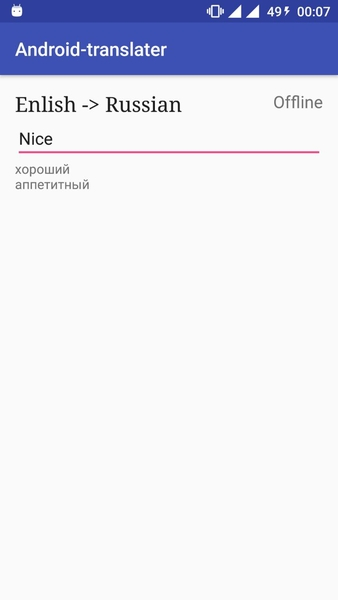
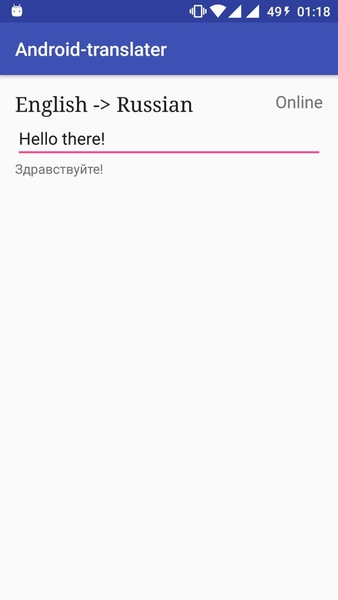
Hotfix

diff --git a/app/src/main/java/com/example/stepanv/android_translater/activities/HomeActivity.java b/app/src/main/java/com/example/stepanv/android_translater/activities/HomeActivity.java
@@ -13,7 +13,7 @@ import com.example.stepanv.android_translater.dictionaryShema.Cit;
 import com.example.stepanv.android_translater.dictionaryShema.Entry;
 import com.example.stepanv.android_translater.dictionaryShema.OfflineTranslator;
 import com.example.stepanv.android_translater.dictionaryShema.Sense;
-import com.example.stepanv.android_translater.rest.NewsApiService;
+import com.example.stepanv.android_translater.rest.YandexTranslatorApiService;
 import com.example.stepanv.android_translater.rest.ServiceFactory;
 import com.fasterxml.jackson.core.type.TypeReference;
 import com.fasterxml.jackson.databind.DeserializationFeature;
@@ -40,7 +40,7 @@ public class HomeActivity extends AppCompatActivity {
     TextView connectionField;
 
     private String LOG_TAG = "HomeActivity";
-    private NewsApiService onlineTranslator;
+    private YandexTranslatorApiService onlineTranslator;
     private OfflineTranslator offlineTranslator;
     private CompositeSubscription subscriptions = new CompositeSubscription();
 
@@ -62,7 +62,7 @@ public class HomeActivity extends AppCompatActivity {
             public void onTextChanged(CharSequence charSequence, int i, int i1, int i2) {
                 if (charSequence.length() >= 1) {
                     subscriptions.add(
-                            onlineTranslator.getTranslation(NewsApiService.LANGUAGE, NewsApiService.API_KEY, charSequence.toString())
+                            onlineTranslator.getTranslation(YandexTranslatorApiService.LANGUAGE, YandexTranslatorApiService.API_KEY, charSequence.toString())
                                     .subscribeOn(Schedulers.newThread())
                                     .observeOn(AndroidSchedulers.mainThread())
                                     .subscribe(
@@ -130,7 +130,7 @@ public class HomeActivity extends AppCompatActivity {
     }
 
     private void initApiService() {
-        onlineTranslator = ServiceFactory.createRetrofitService(NewsApiService.class, NewsApiService.ENDPOINT);
+        onlineTranslator = ServiceFactory.createRetrofitService(YandexTranslatorApiService.class, YandexTranslatorApiService.ENDPOINT);
     }
 
     @Override

diff --git a/app/src/main/java/com/example/stepanv/android_translater/rest/YandexTranslatorApiService.java b/app/src/main/java/com/example/stepanv/android_translater/rest/YandexTranslatorApiService.java
@@ -6,7 +6,11 @@ import retrofit2.http.GET;
 import retrofit2.http.Query;
 import rx.Observable;
 
-public interface NewsApiService {
+/**
+ * Created by stepanv on 28.12.16.
+ */
+
+public interface YandexTranslatorApiService {
     String API_KEY = "trnsl.1.1.20161227T143428Z.eecd5f02733cd7de.600e2b11371811d23941701a0a019832d74b3154";
     String ENDPOINT = "https://translate.yandex.net/api/v1.5/tr.json/";
     String LANGUAGE = "en-ru";

diff --git a/app/src/main/java/com/example/stepanv/android_translater/rest/ServiceFactory.java b/app/src/main/java/com/example/stepanv/android_translater/rest/ServiceFactory.java
@@ -6,6 +6,9 @@ import retrofit2.Retrofit;
 import retrofit2.adapter.rxjava.RxJavaCallAdapterFactory;
 import retrofit2.converter.gson.GsonConverterFactory;
 
+/**
+ * Created by stepanv on 28.12.16.
+ */
 
 public class ServiceFactory {
 
